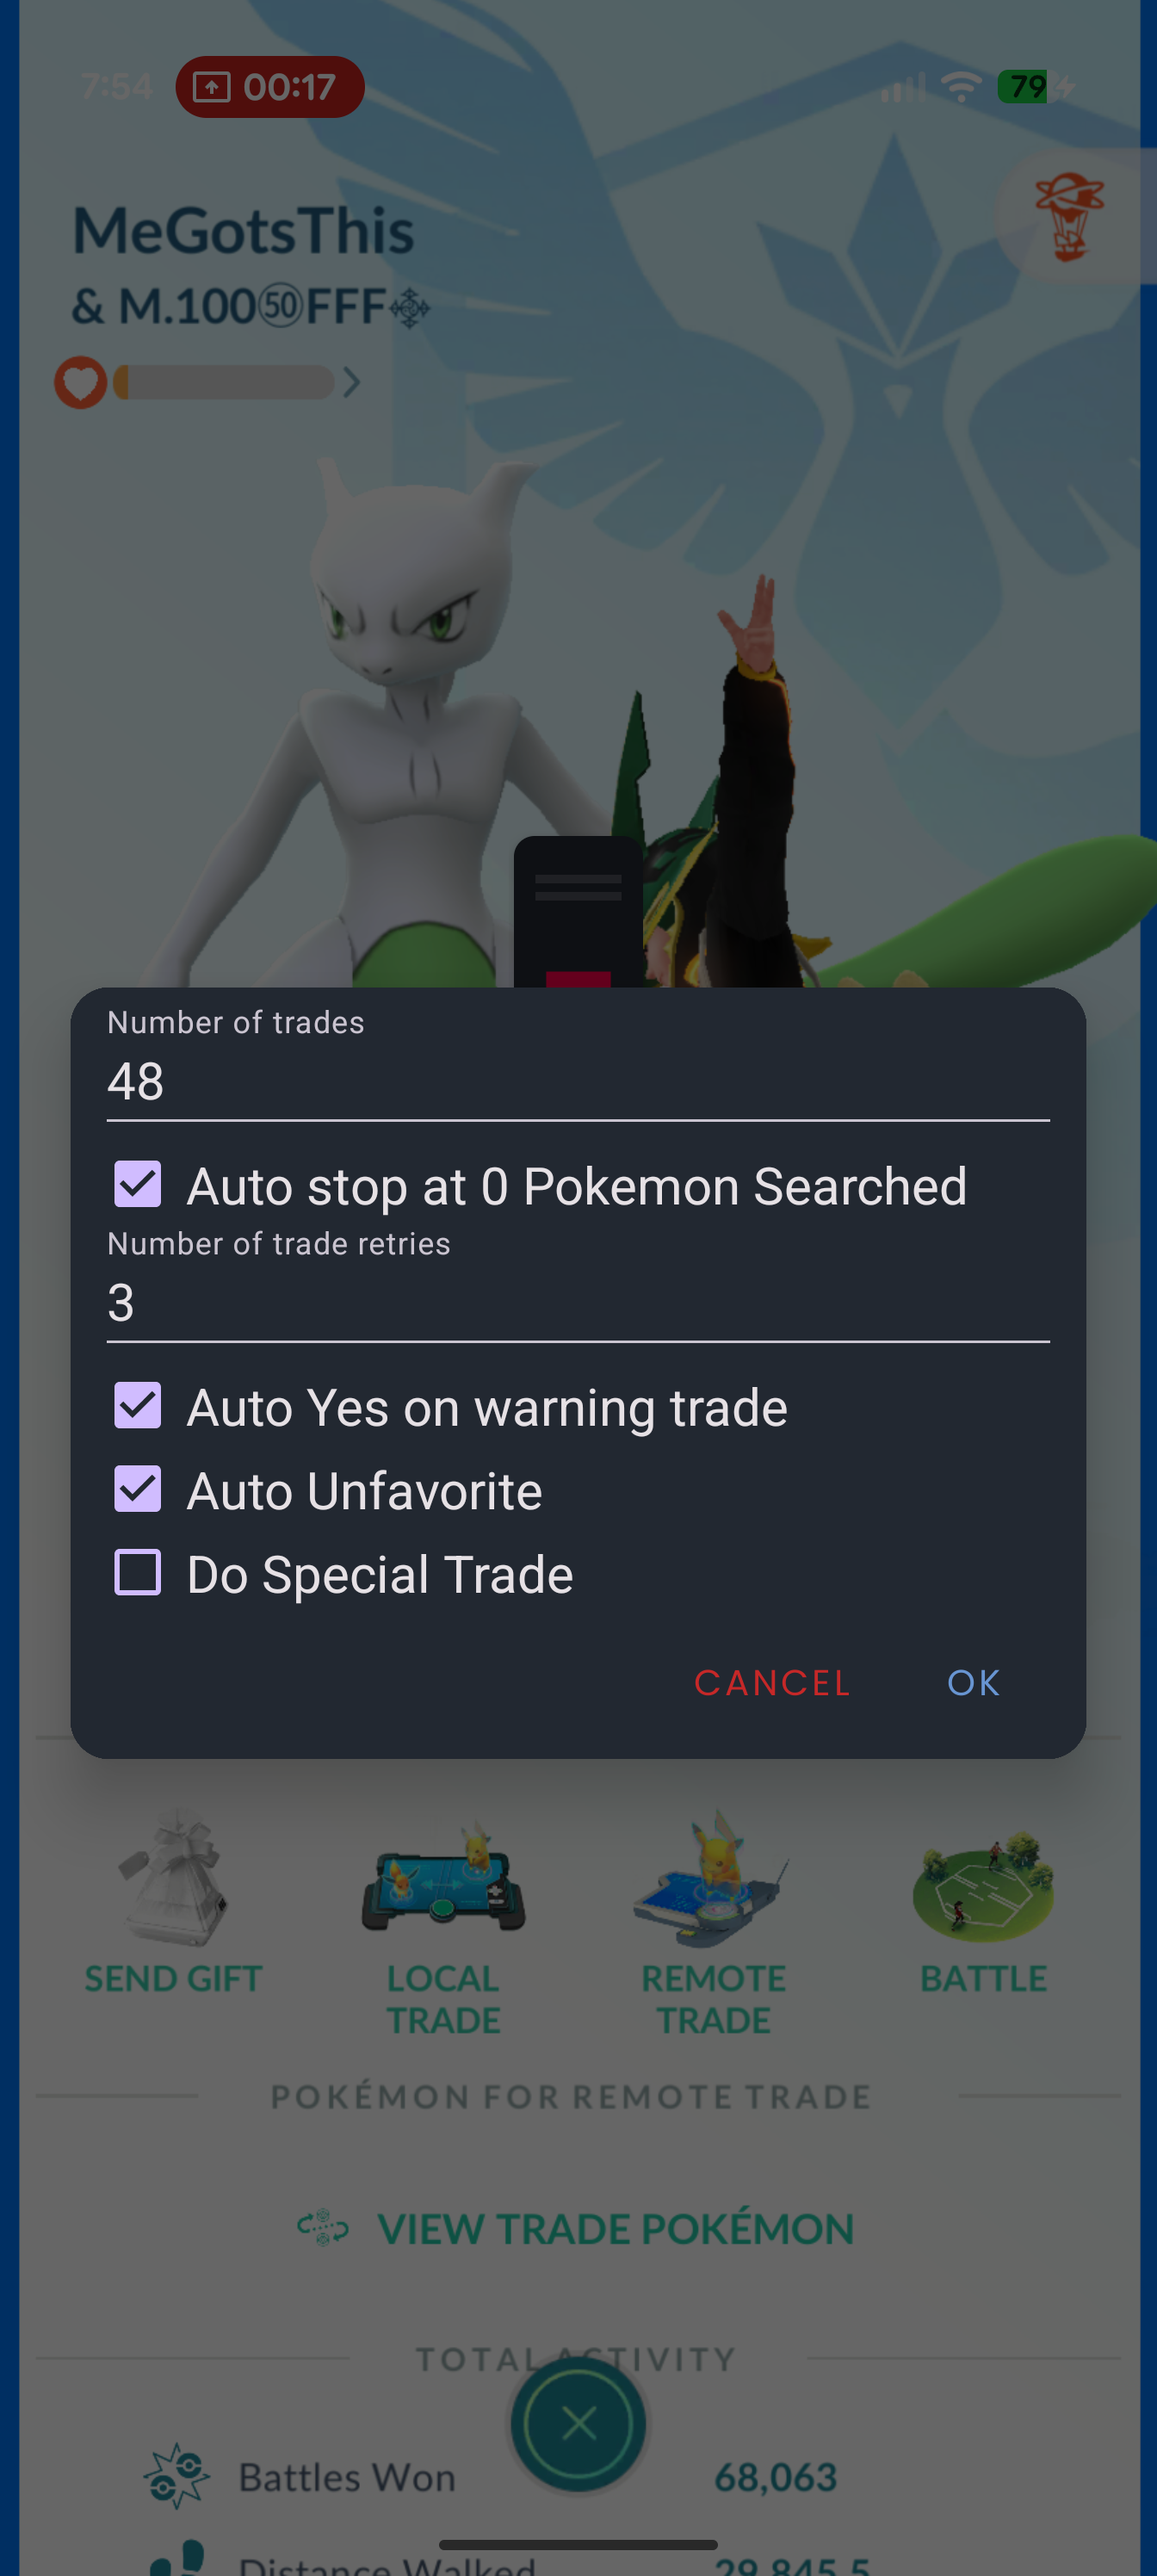
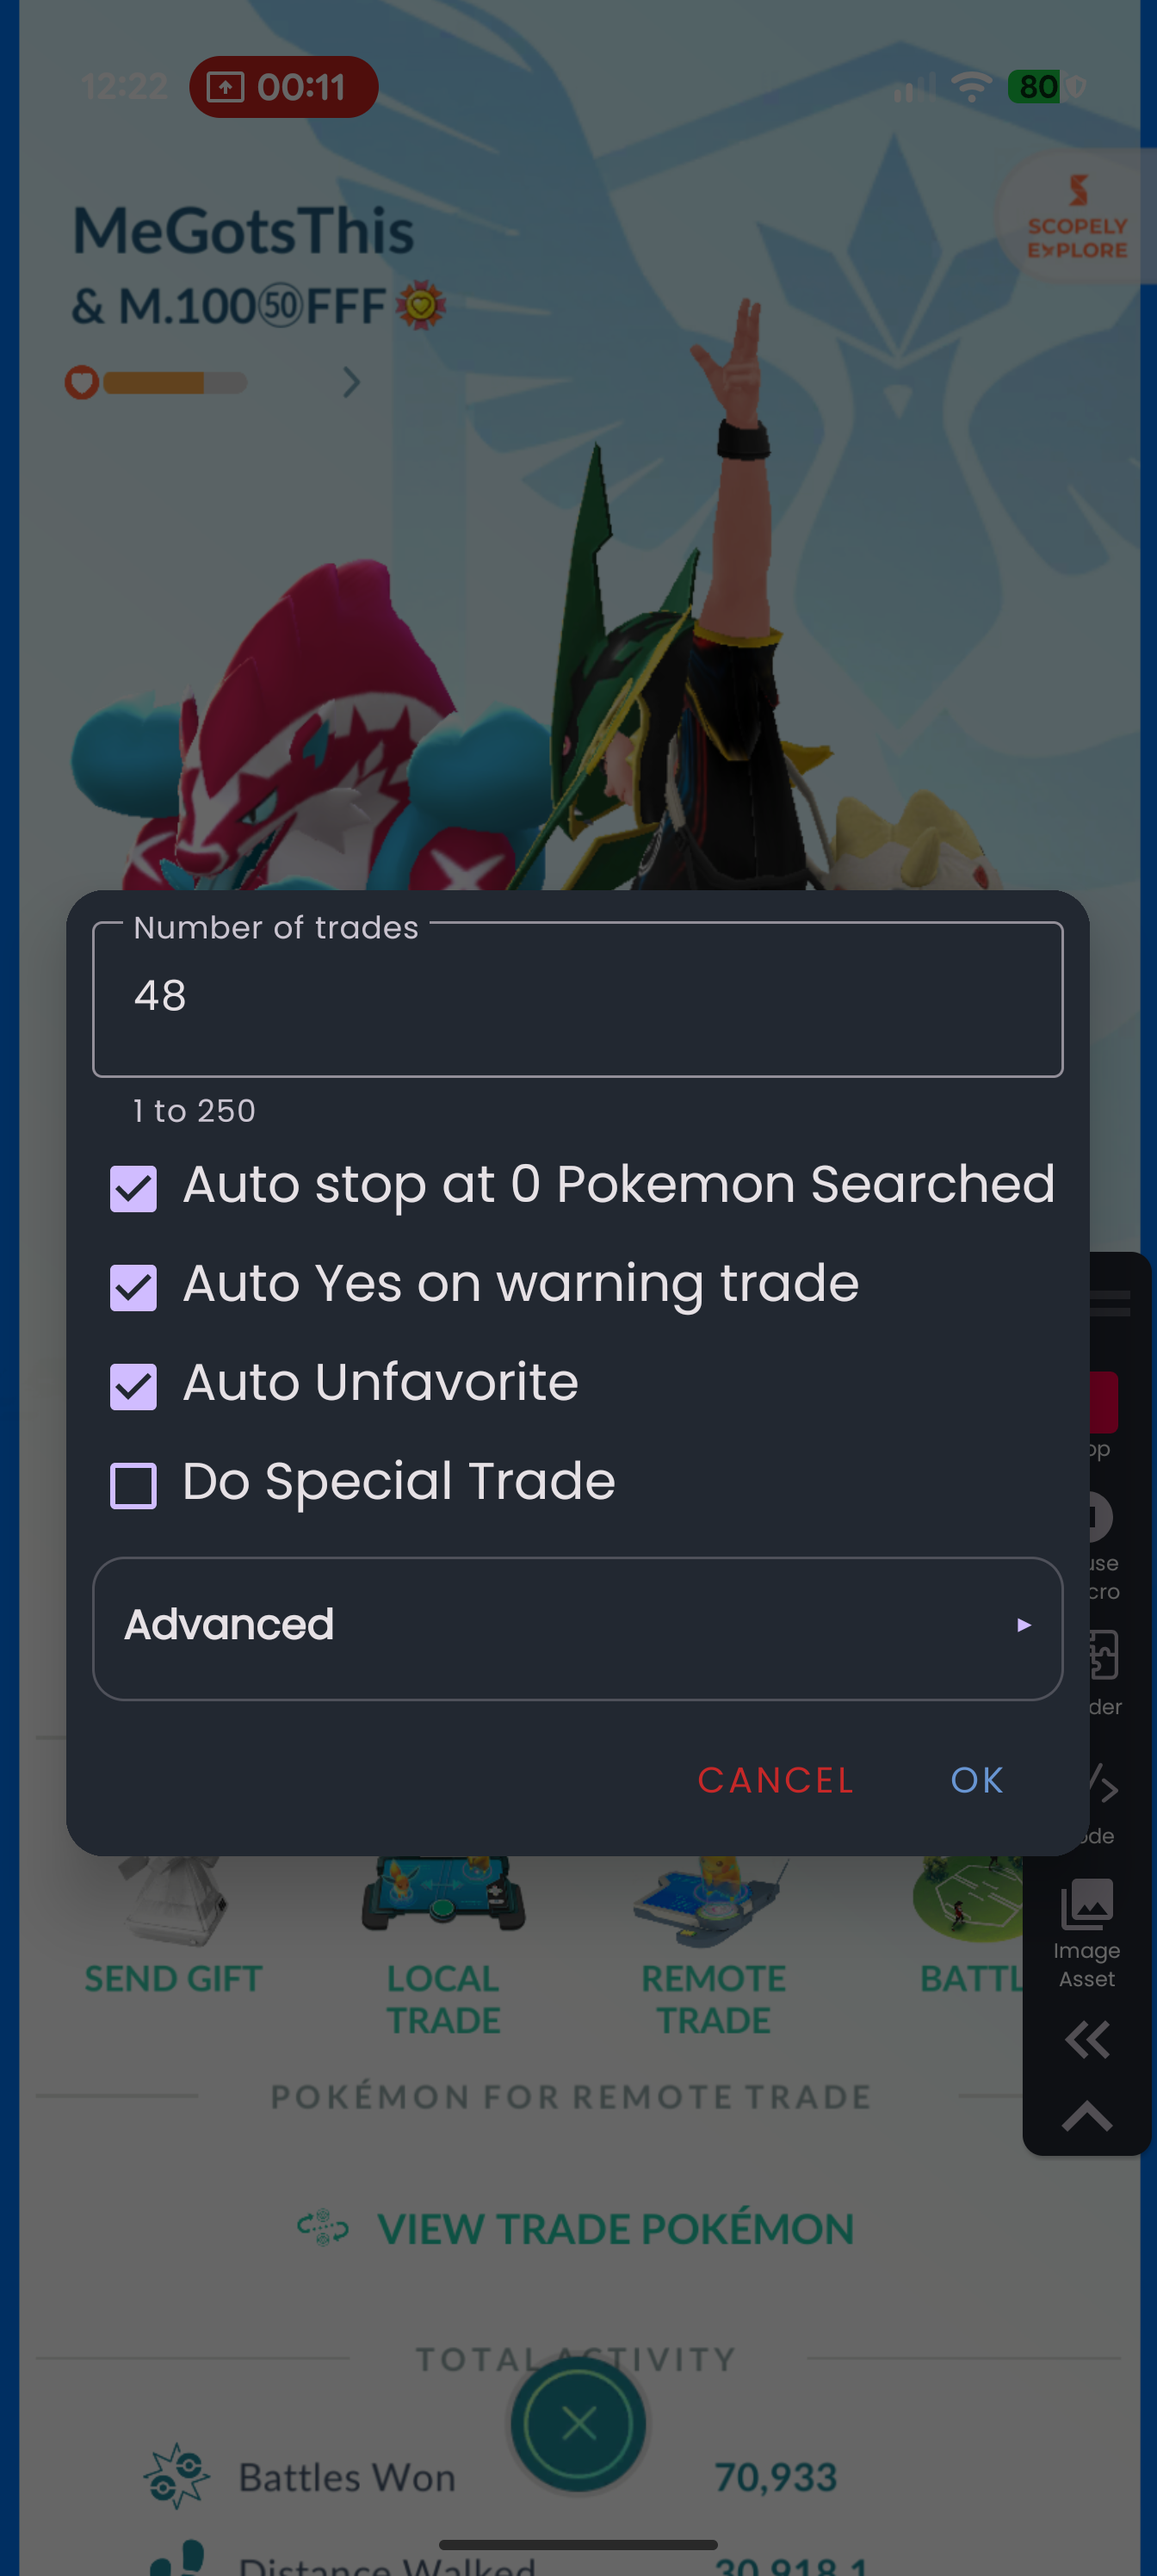
Improve trade settings and error handling
Group retry configuration under optional advanced settings, support up to 250 trades, and handle friend-not-found dialogs as retryable trade failures. Update the documented app requirement and timing estimate.

diff --git a/trading-pokemon/README.md b/trading-pokemon/README.md
@@ -35,7 +35,7 @@ This trade auto tapper can handle multiple scenarios such as dynamax Pokemon and
 | Component | Supported versions/devices |
 | --- | --- |
 | Pokemon GO | 0.420.0+ |
-| Android Macro | 1.0.0.36+ |
+| Android Macro | 1.0.0.37+ |
 | Android version | Android 15+ |
 | Phone type | Slab phones (non-foldable), including Samsung Galaxy S-series/A-series and Pixel phones |
 
@@ -84,26 +84,31 @@ Before starting the macro, prepare both devices/phones like this:
 
 ## Macro settings
 
-When the macro starts, it opens a small dialog with these settings:
+When the macro starts, it opens a small dialog with the main settings first. Optional advanced settings are grouped in a collapsed section labeled "Advanced" so they stay out of the way for typical runs.
 
 | Setting | What it does |
 | --- | --- |
 | **Number of trades** | Sets the maximum number of trades the macro should try. |
 | **Auto stop at 0 Pokemon Searched** | Stops the macro when it finds no valid Pokemon to trade. |
-| **Number of trade retries** | Sets how many retry attempts are made after a failed trade. |
 | **Auto Yes on warning trade** | Accepts warning prompts automatically, typically for Dynamax or Mega-evolved Pokemon. |
 | **Auto Unfavorite** | Removes the favorite mark from Pokemon when needed. |
 | **Do Special Trade** | Allows the macro to continue through special trade prompts. |
+| **Advanced (optional)** | Collapsed by default; includes extra settings such as trade retry count. |
 
 ### Recommended starting values
 
 | Setting | Recommendation |
 | --- | --- |
 | Number of trades | 1 to 100 |
-| Number of trade retries | 2 to 5 |
 | Auto Yes on warning trade | Enabled |
 | Auto Unfavorite | Enabled if you want the macro to unmark Pokemon before trading |
 | Do Special Trade | Disabled unless you specifically want special trades |
+
+### Advanced settings
+
+| Setting | What it does |
+| --- | --- |
+| Number of trade retries | Sets how many retry attempts are made after a failed trade. Leave blank to use the default of 3. |
 
 ## What the macro handles automatically
 
@@ -122,7 +127,7 @@ This script includes logic for common trade states, including:
 
 ### How long do 100 trades take?
 
-On my two phones, doing 100 trades usually takes under 40 minutes. Pokemon GO has trade cooldown and the macro will not be able to run faster than the cooldown.
+On my two phones, doing 100 trades usually takes under 35 minutes. Pokemon GO has trade cooldown and the macro will not be able to run faster than the cooldown.
 
 ### Can this run on tablets or foldable phones?
 
